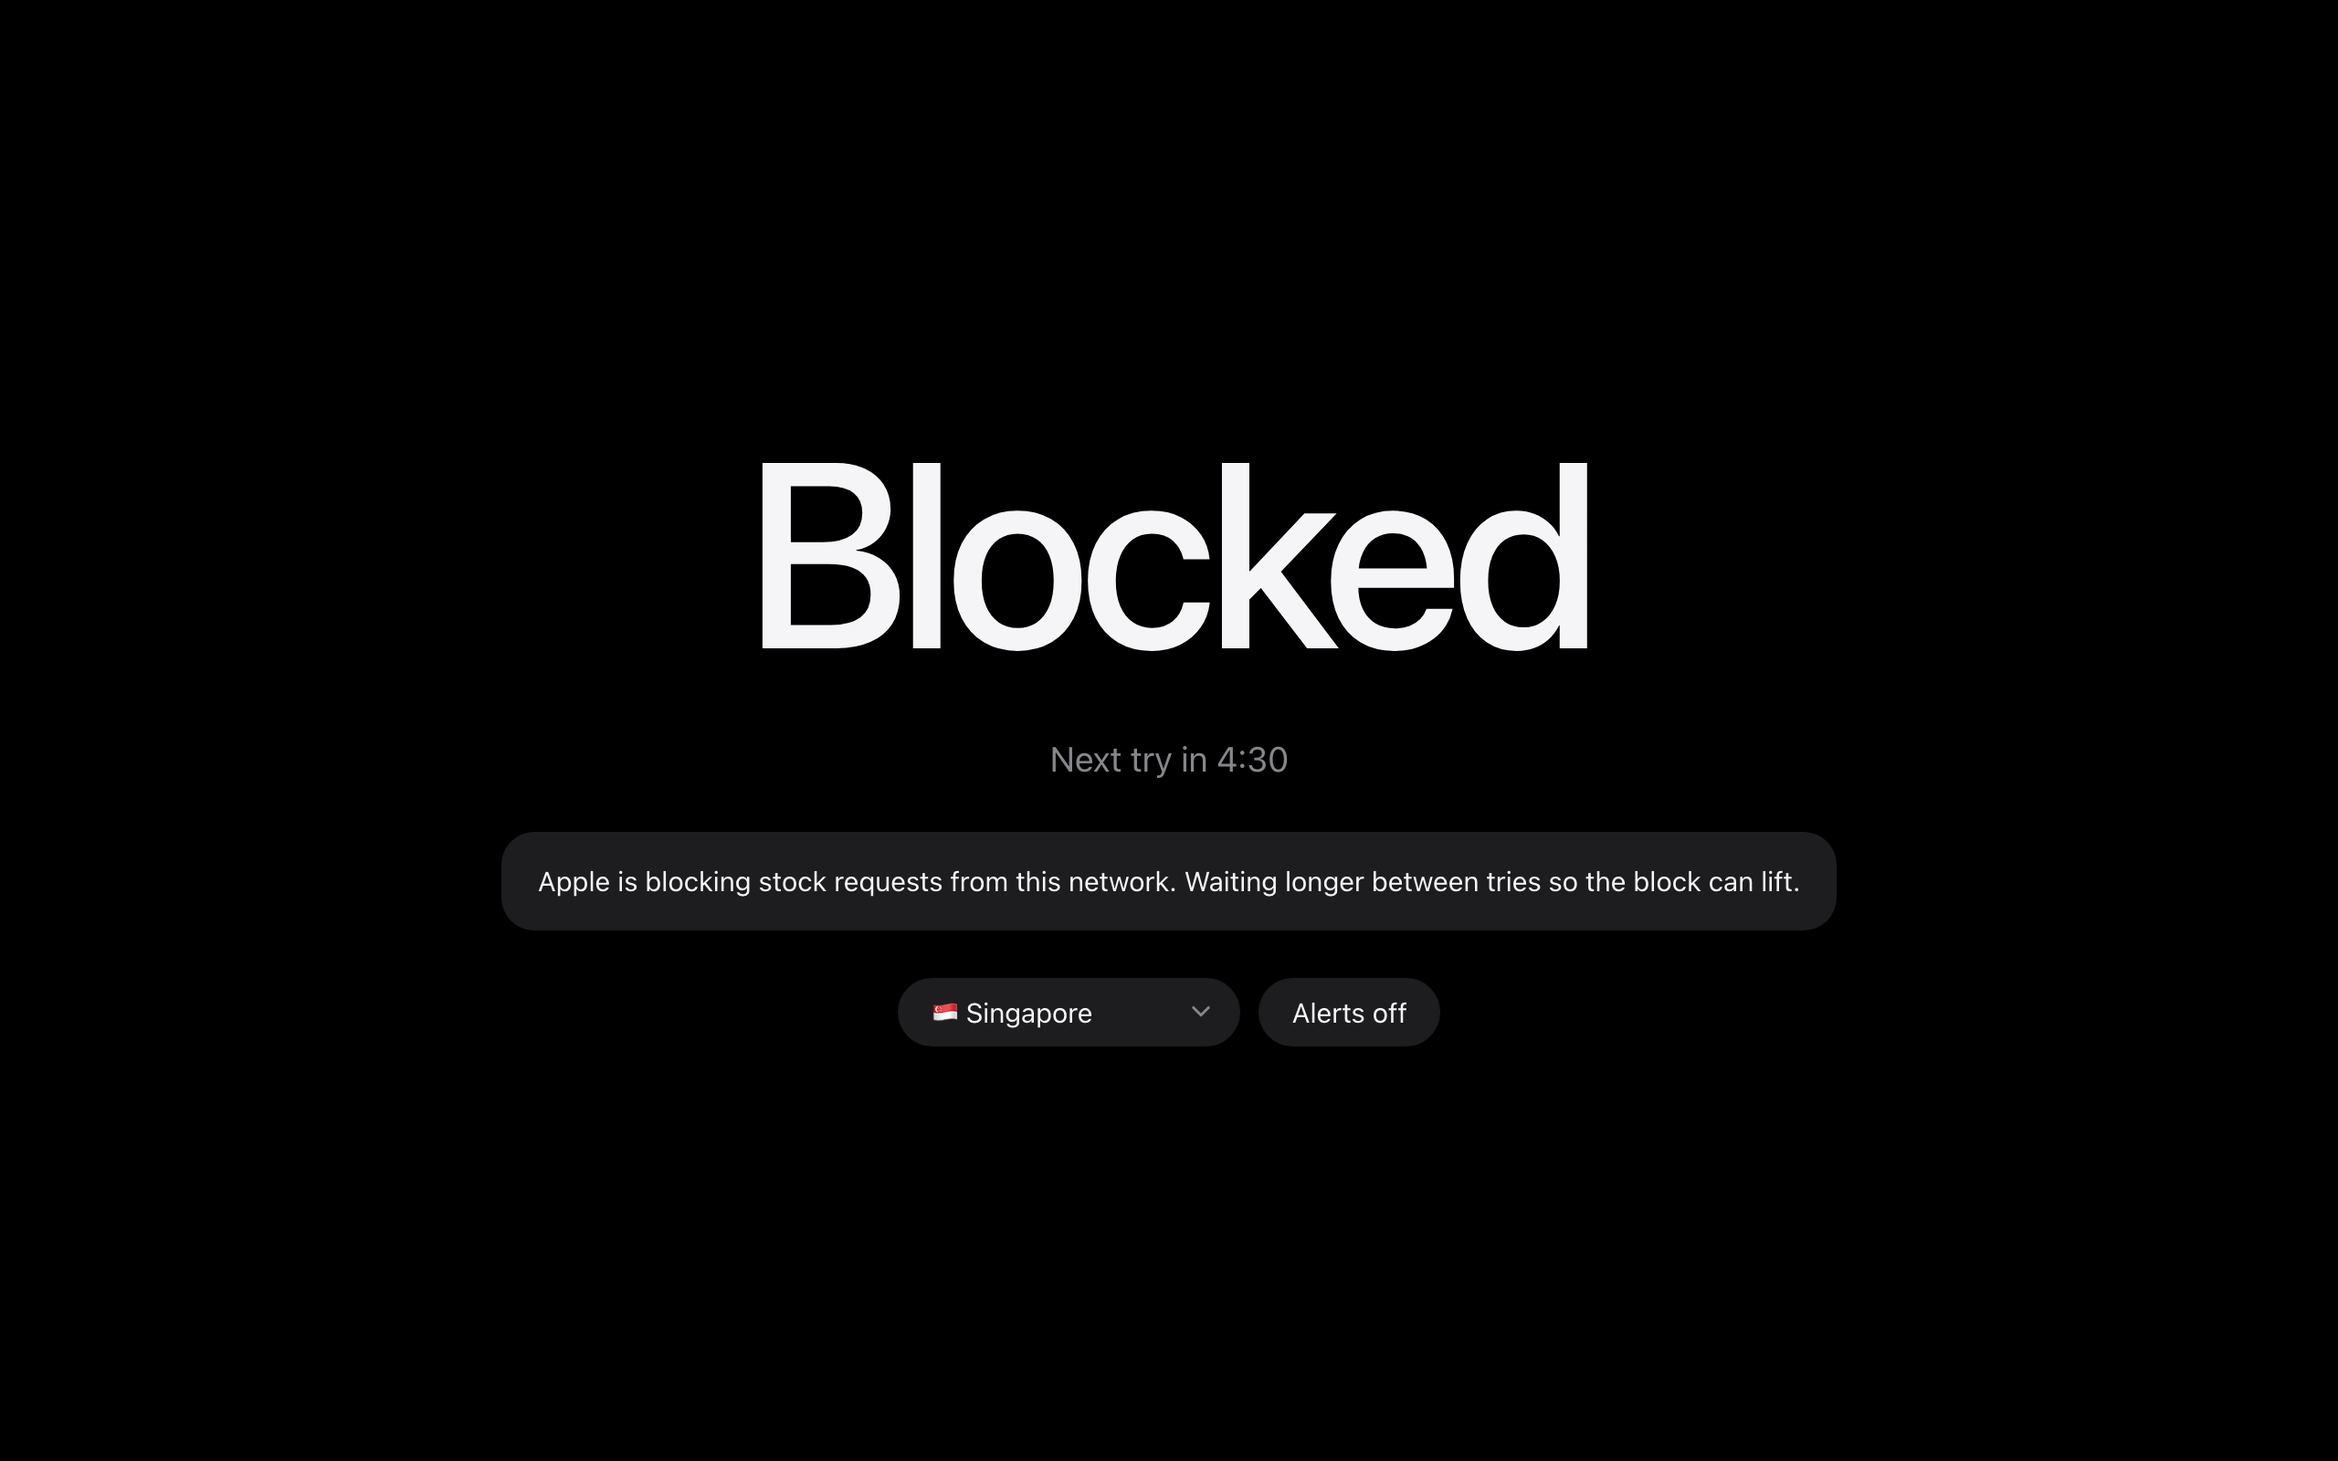
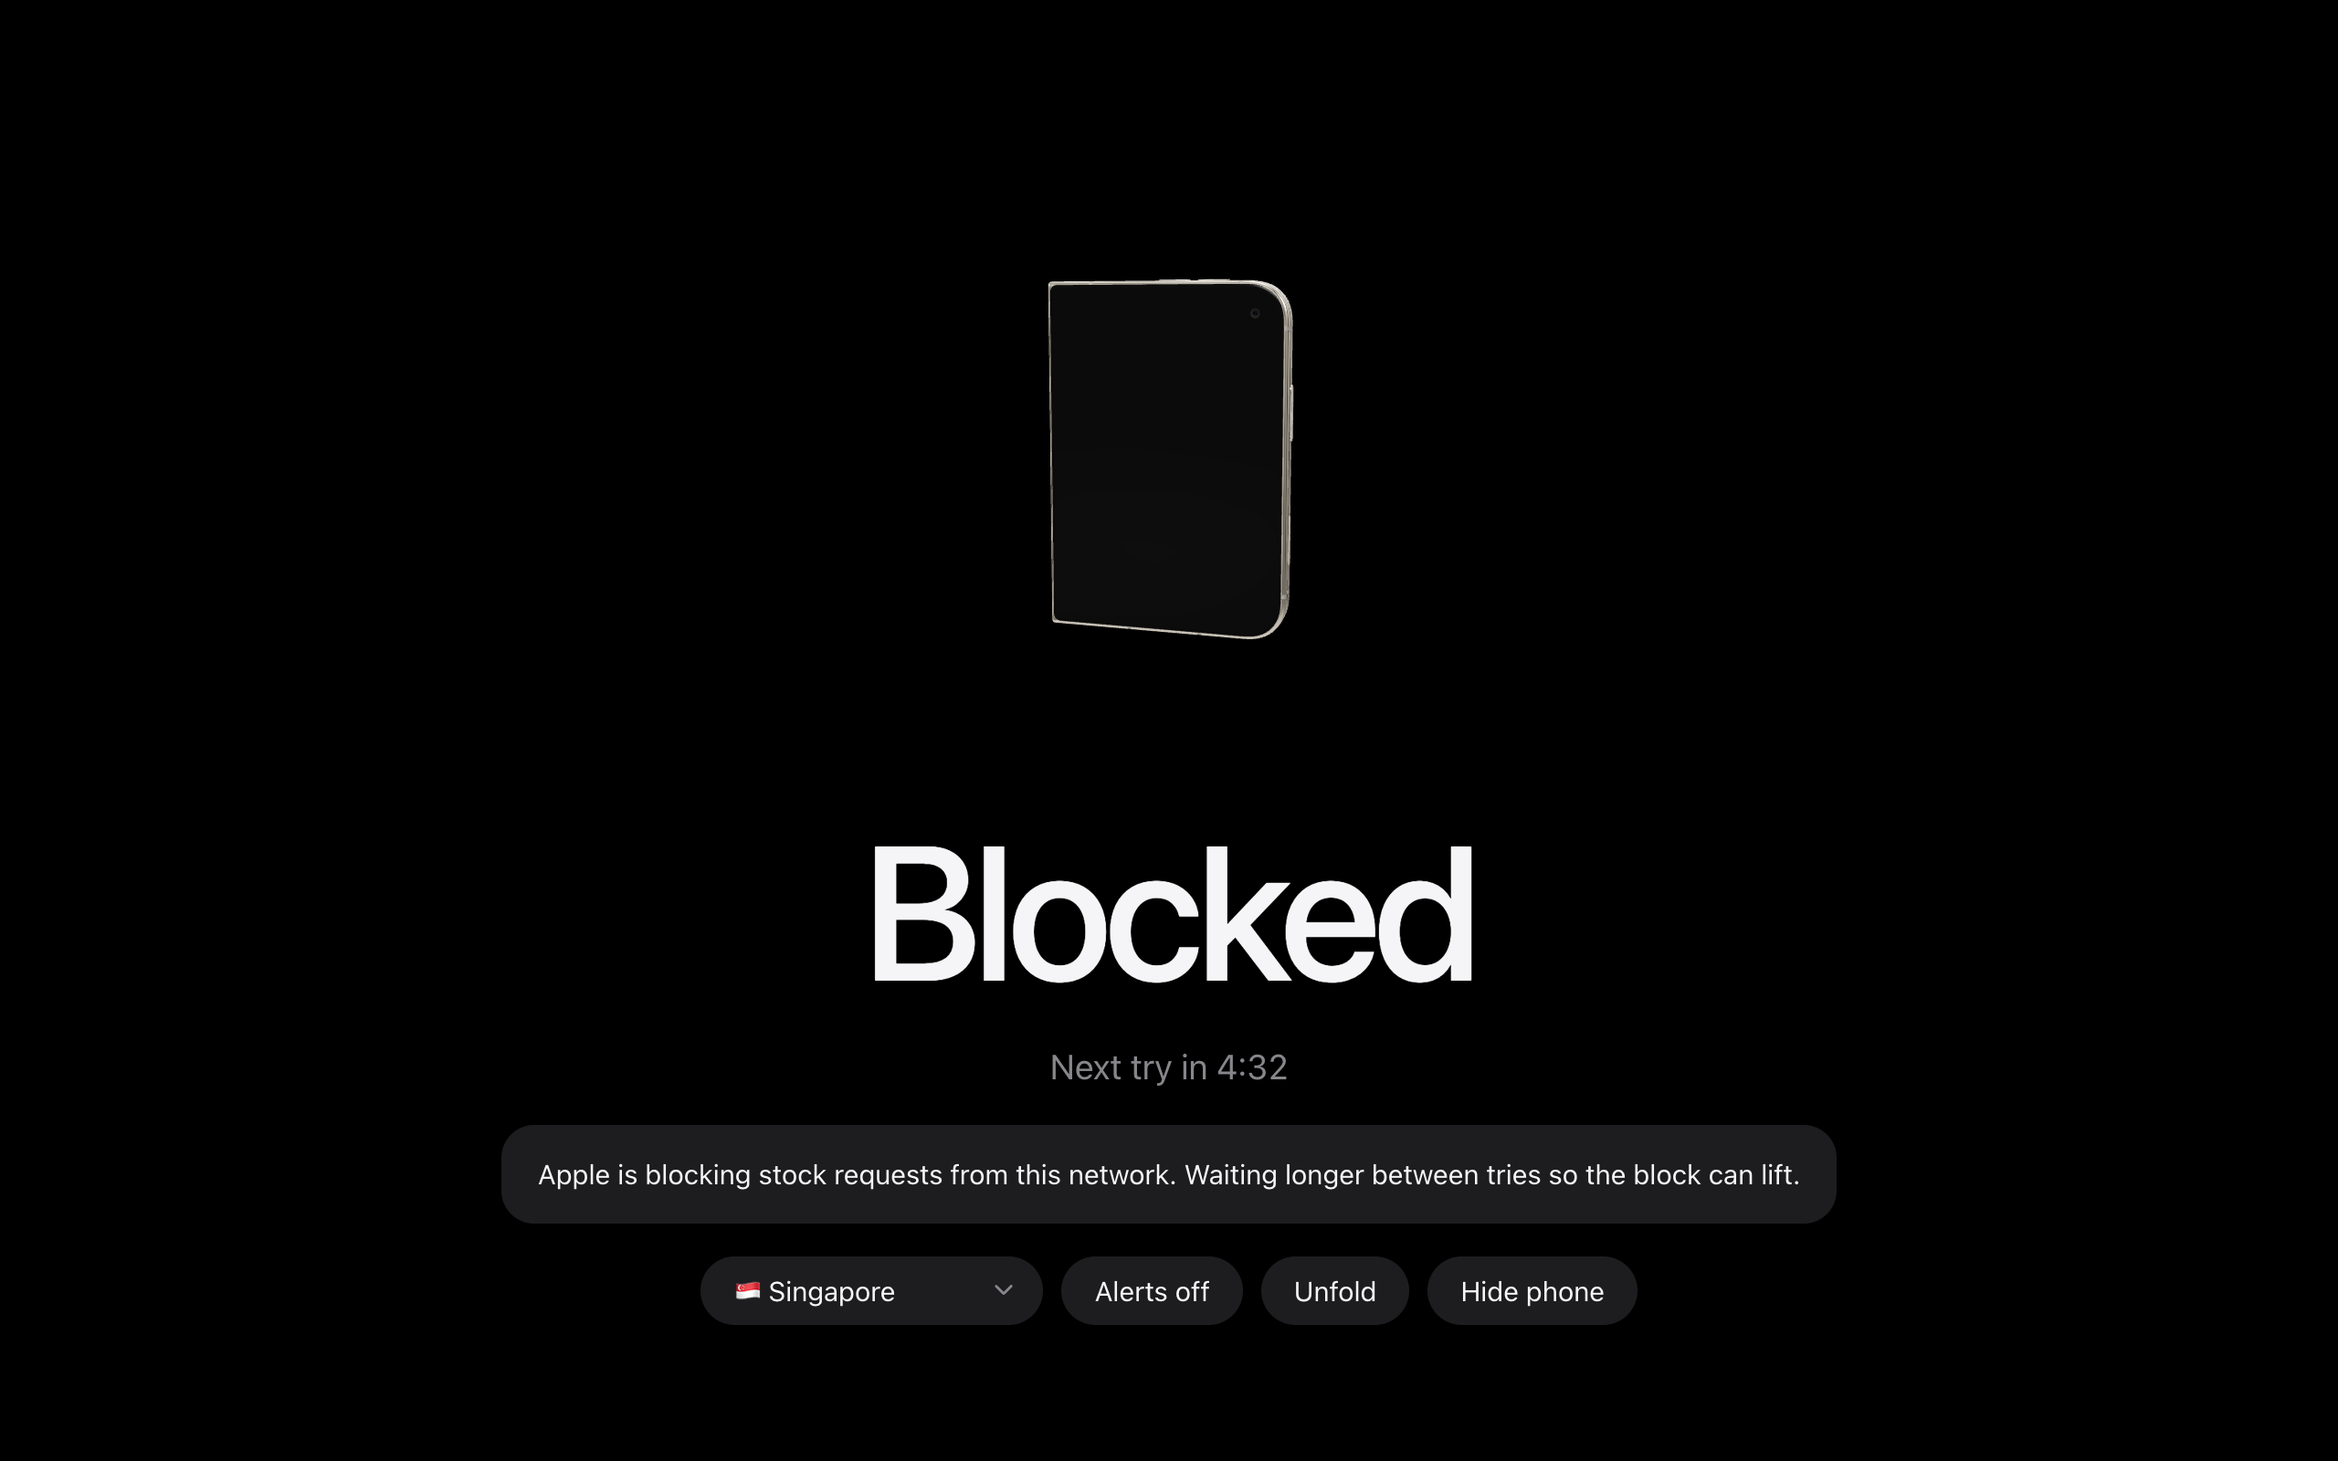
Put the 3D phone above the text, make it fold, and show timers as m:ss
- The phone sits in its own block above the headline instead of behind it.
- Unfold/Fold bends the unfolded model at its hinge; Apple's file has only
  still poses, so the fold is built in the page.
- Hide phone removes it and re-centres the text; the choice is remembered.
- 'Checked 0:42 ago · next check in 0:23' replaces the seconds counter.
- get-model.sh builds the unfolded pose and accepts COLOR=Night_Sky.
- README screenshots retaken with the phone.

Changed region(s): [[0.1875, 0.5625, 0.8125, 0.9062], [0.3125, 0.1875, 0.6875, 0.4688], [0.4375, 0.5, 0.5625, 0.5312]]

diff --git a/index.html b/index.html
@@ -48,17 +48,16 @@
   input { width: 9em; text-align: center; }
   button[aria-pressed="true"] { background: var(--accent); color: var(--on-accent); }
   button:focus-visible, a:focus-visible, select:focus-visible, input:focus-visible { outline: 2px solid var(--accent); outline-offset: 3px; }
-  /* Optional 3D phone behind the text. Drag anywhere empty to turn it. */
-  #bg { position: fixed; inset: 0; width: 100%; height: 100%; z-index: 0; opacity: 0; transition: opacity 0.8s; cursor: grab; touch-action: none; }
-  #bg.ready { opacity: 0.55; }
+  /* Optional 3D phone, in its own block above the text. Drag to turn it, scroll to zoom. */
+  #bg { display: block; width: 100%; height: min(44vh, 420px); cursor: grab; touch-action: none; outline: none; }
   #bg:active { cursor: grabbing; }
-  main { position: relative; z-index: 1; pointer-events: none; }
-  main a, main button, main select, main input, main .note { pointer-events: auto; }
+  body.phone h1 { font-size: clamp(44px, 10vw, 104px); }
+  body.phone main { gap: 18px; }
 </style>
 </head>
 <body>
-<canvas id="bg" aria-hidden="true"></canvas>
 <main>
+  <canvas id="bg" aria-hidden="true" hidden></canvas>
   <h1 id="headline">Checking…</h1>
   <ul class="hits" id="hits" hidden></ul>
   <div class="sub" id="sub"></div>
@@ -67,6 +66,8 @@
     <select id="country" aria-label="Country"></select>
     <input id="place" type="text" aria-label="Postcode or city" autocomplete="off" spellcheck="false" hidden>
     <button id="alerts" type="button" aria-pressed="false">Alerts off</button>
+    <button id="fold" type="button" hidden>Unfold</button>
+    <button id="phone" type="button" hidden>Hide phone</button>
   </div>
 </main>
 
@@ -126,15 +127,18 @@
     tickClock();
   }
 
+  const clock = (seconds) => Math.floor(seconds / 60) + ":" + String(seconds % 60).padStart(2, "0");
+
   function tickClock() {
     if (!state) return;
     const now = Date.now() + skew;
     if (state.status === "blocked" || state.status === "error") {
       const left = Math.max(0, Math.round((state.nextAt - now) / 1000));
-      sub.textContent = left ? "Next try in " + Math.floor(left / 60) + ":" + String(left % 60).padStart(2, "0") : "Trying now";
+      sub.textContent = left ? "Next try in " + clock(left) : "Trying now";
     } else if (state.checkedAt) {
-      const s = Math.max(0, Math.round((now - state.checkedAt) / 1000));
-      sub.textContent = "Checked " + (s < 2 ? "just now" : s + " s ago");
+      const ago = Math.max(0, Math.round((now - state.checkedAt) / 1000));
+      const left = Math.max(0, Math.round((state.nextAt - now) / 1000));
+      sub.textContent = "Checked " + clock(ago) + " ago \u00b7 " + (left ? "next check in " + clock(left) : "checking now");
     } else sub.textContent = "";
   }
 
@@ -212,7 +216,79 @@
 <script type="module">
 // Optional background: Apple's iPhone Duo AR model, if scripts/get-model.sh has fetched it.
 // Nothing here is needed for stock checking; any failure just leaves the page plain.
-const canvas = document.getElementById("bg");
+// Turns the unfolded phone model into one that can fold. Apple's file has no fold animation, only
+// still poses, so this bends the unfolded pose at its hinge: every part left of the hinge swings
+// over onto the right half. Parts that cross the hinge (the inner display, the hinge itself) are
+// bent vertex by vertex.
+function foldable(THREE, source) {
+  source.updateMatrixWorld(true);
+  const parts = [];
+  source.traverse((o) => {
+    if (!o.isMesh) return;
+    const geo = o.geometry.clone().applyMatrix4(o.matrixWorld); // bake placement into the vertices
+    if (o.matrixWorld.determinant() < 0) {
+      if (geo.index) { const ix = geo.index.array; for (let i = 0; i < ix.length; i += 3) { const t = ix[i + 1]; ix[i + 1] = ix[i + 2]; ix[i + 2] = t; } }
+      else o.material.side = THREE.DoubleSide;
+    }
+    geo.computeBoundingBox();
+    parts.push({ geo, material: o.material, box: geo.boundingBox.clone(), order: o.renderOrder });
+  });
+  const width = Math.max(...parts.map((p) => p.box.max.x - p.box.min.x));
+  // Drop helper shapes that are far thicker than a phone (the file carries an invisible bounding block).
+  const real = parts.filter((p) => p.box.max.z - p.box.min.z < width * 0.1);
+  const all = new THREE.Box3();
+  for (const p of real) all.union(p.box);
+  const hinge = (all.min.x + all.max.x) / 2, eps = width * 0.004, pivotZ = all.max.z;
+  const half = (all.max.x - hinge) / 2, midY = (all.min.y + all.max.y) / 2;
+
+  const group = new THREE.Group(), leaf = new THREE.Group(), bend = [];
+  leaf.position.set(hinge, 0, pivotZ);
+  group.add(leaf);
+  for (const p of real) {
+    // Keep each part's own centre as its position: see-through layers (glass over the wallpaper)
+    // are drawn back to front by that centre, and stacking them all at the origin breaks the order.
+    const mid = p.box.getCenter(new THREE.Vector3());
+    p.geo.translate(-mid.x, -mid.y, -mid.z);
+    const mesh = new THREE.Mesh(p.geo, p.material);
+    mesh.renderOrder = p.order;
+    // The lit screen image lies exactly on top of a black panel. Draw it after the panel and nudge
+    // it forward, or the two fight for the same depth and the screen comes out dark.
+    if (p.material.emissiveMap) {
+      mesh.renderOrder = p.order + 1;
+      p.material.polygonOffset = true; p.material.polygonOffsetFactor = -2; p.material.polygonOffsetUnits = -2;
+    }
+    mesh.position.copy(mid);
+    if (p.box.max.x <= hinge + eps) { mesh.position.x -= hinge; mesh.position.z -= pivotZ; leaf.add(mesh); }
+    else if (p.box.min.x >= hinge - eps) group.add(mesh);
+    else {
+      mesh.frustumCulled = false;
+      const pos = p.geo.attributes.position, nor = p.geo.attributes.normal;
+      bend.push({ pos, nor, mid, p0: pos.array.slice(), n0: nor ? nor.array.slice() : null });
+      group.add(mesh);
+    }
+  }
+
+  // t = 0 is unfolded, t = 1 is closed with the cover display facing the camera.
+  function set(t) {
+    const a = t * Math.PI, c = Math.cos(a), s = Math.sin(a);
+    leaf.rotation.y = a;
+    for (const b of bend) {
+      const P = b.pos.array, N = b.nor ? b.nor.array : null;
+      for (let i = 0; i < P.length; i += 3) {
+        const x = b.p0[i] + b.mid.x - hinge, z = b.p0[i + 2] + b.mid.z - pivotZ;
+        if (x >= 0) continue;
+        P[i] = hinge + x * c + z * s - b.mid.x; P[i + 2] = pivotZ - x * s + z * c - b.mid.z;
+        if (N) { const nx = b.n0[i], nz = b.n0[i + 2]; N[i] = nx * c + nz * s; N[i + 2] = -nx * s + nz * c; }
+      }
+      b.pos.needsUpdate = true; if (b.nor) b.nor.needsUpdate = true;
+    }
+    group.position.set(-(hinge + half * t), -midY, -pivotZ);
+  }
+  set(1);
+  return { group, set, width: all.max.x - all.min.x };
+}
+
+const canvas = document.getElementById("bg"), fold = document.getElementById("fold"), toggle = document.getElementById("phone");
 try {
   const probe = await fetch("/model/duo.usdz", { method: "HEAD" });
   if (!probe.ok) throw new Error("no model");
@@ -230,35 +306,66 @@ try {
   scene.environment = new THREE.PMREMGenerator(renderer).fromScene(new RoomEnvironment(), 0.04).texture;
   const camera = new THREE.PerspectiveCamera(30, 1, 0.01, 100);
 
-  const model = await new USDLoader().loadAsync("/model/duo.usdz");
-  const box = new THREE.Box3().setFromObject(model);
-  const size = box.getSize(new THREE.Vector3());
-  model.position.sub(box.getCenter(new THREE.Vector3()));
-  scene.add(model);
-
-  const reach = Math.max(size.x, size.y, size.z);
-  camera.position.set(reach * 0.9, reach * 0.25, reach * 2.1);
+  const phone = foldable(THREE, await new USDLoader().loadAsync("/model/duo.usdz"));
+  scene.add(phone.group);
+  const reach = phone.width;
+  camera.position.set(reach * 0.75, reach * 0.3, reach * 2.3);
 
   const controls = new OrbitControls(camera, canvas);
   controls.enablePan = false;
   controls.enableDamping = true;
   controls.minDistance = reach * 1.2;
-  controls.maxDistance = reach * 4;
-  controls.autoRotate = !window.matchMedia("(prefers-reduced-motion: reduce)").matches;
+  controls.maxDistance = reach * 5;
+  const calm = window.matchMedia("(prefers-reduced-motion: reduce)").matches;
+  controls.autoRotate = !calm;
   controls.autoRotateSpeed = 1.2;
 
   const resize = () => {
-    renderer.setSize(window.innerWidth, window.innerHeight, false);
-    camera.aspect = window.innerWidth / window.innerHeight;
+    const w = canvas.clientWidth, h = canvas.clientHeight;
+    if (!w || !h) return;
+    renderer.setSize(w, h, false);
+    camera.aspect = w / h;
     camera.updateProjectionMatrix();
   };
-  window.addEventListener("resize", resize);
-  resize();
+  new ResizeObserver(resize).observe(canvas);
 
-  renderer.setAnimationLoop(() => { controls.update(); renderer.render(scene, camera); });
-  canvas.classList.add("ready");
+  // Show or hide the phone block. Hidden, the text sits alone in the middle of the page again.
+  let hidden = false;
+  try { hidden = localStorage.getItem("duo-phone-hidden") === "1"; } catch (e) {}
+  const apply = () => {
+    canvas.hidden = hidden; fold.hidden = hidden; toggle.hidden = false;
+    document.body.classList.toggle("phone", !hidden);
+    toggle.textContent = hidden ? "Show phone" : "Hide phone";
+    if (!hidden) resize();
+  };
+  toggle.addEventListener("click", () => {
+    hidden = !hidden;
+    try { localStorage.setItem("duo-phone-hidden", hidden ? "1" : "0"); } catch (e) {}
+    apply();
+  });
+
+  // Fold state eases toward its target: 1 closed, 0 unfolded.
+  let target = location.hash === "#unfolded" ? 0 : 1, at = target, last = performance.now();
+  phone.set(at);
+  renderer.setAnimationLoop((now) => {
+    const dt = Math.min(0.05, (now - last) / 1000); last = now;
+    if (at !== target) {
+      at = calm || Math.abs(target - at) < 0.002 ? target : at + (target - at) * (1 - Math.exp(-dt * 4.5));
+      phone.set(at);
+    }
+    if (hidden) return;
+    controls.update();
+    renderer.render(scene, camera);
+  });
+  apply();
+  fold.textContent = target ? "Unfold" : "Fold";
+  fold.addEventListener("click", () => {
+    target = target ? 0 : 1;
+    fold.textContent = target ? "Unfold" : "Fold";
+  });
 } catch (error) {
-  canvas.hidden = true;
+  canvas.hidden = true; fold.hidden = true; toggle.hidden = true;
+  document.body.classList.remove("phone");
 }
 </script>
 </body>

diff --git a/README.md b/README.md
@@ -12,11 +12,11 @@ No account, no hosting, no dependencies.
 
 ## Screenshots
 
-Captured from the real page with sample data.
+Captured from the real page with sample stock data, with the optional 3D phone turned on.
 
 | No stock | In stock |
 | --- | --- |
-| ![Black screen reading No stock](screenshots/no-stock.png) | ![White screen reading In stock, listing two configurations with their stores](screenshots/in-stock.png) |
+| ![Black screen with a closed iPhone Duo above the words No stock](screenshots/no-stock.png) | ![White screen with an unfolded iPhone Duo above the words In stock and two configurations with their stores](screenshots/in-stock.png) |
 
 When Apple is rate limiting your network:
 
@@ -43,11 +43,13 @@ To use another port:
 PORT=5000 node server.mjs
 ```
 
-## Optional: 3D iPhone Duo background
+## Optional: 3D iPhone Duo
 
-The page can show Apple's own iPhone Duo model behind the text. Drag to turn it, scroll to zoom.
+The page can show Apple's own iPhone Duo model above the text.
 
-![No stock screen with the iPhone Duo model behind the text](screenshots/with-model.png)
+- **Drag** to turn it, **scroll** to zoom. Left alone, it turns slowly.
+- **Unfold / Fold** opens and closes it.
+- **Hide phone** removes it and puts the text back in the middle of the page. The choice is remembered.
 
 The model is not in this repository, because it belongs to Apple. A script downloads it from
 apple.com to your machine instead:
@@ -59,20 +61,23 @@ apple.com to your machine instead:
 Then reload the page. What the script does:
 
 1. Downloads Apple's AR model (`.usdz`, about 8 MB) from the iPhone Duo page on apple.com.
-2. Flattens it into one layer with `usdcat`, because browsers cannot follow the references inside
-   Apple's file.
+2. Picks the unfolded pose and flattens the file into one layer with `usdcat`, because browsers
+   cannot follow the references inside Apple's file.
 3. Saves the result as `model/duo.usdz`, which is gitignored.
 
 Notes:
 
 - macOS only. `usdcat` ships with macOS; there is nothing to install.
+- Star White by default. For the other colour: `COLOR=Night_Sky ./scripts/get-model.sh`.
 - If Apple moves the file, pass the new address: `./scripts/get-model.sh <url>`. Find it by
   searching the source of apple.com/iphone-duo for `.usdz`.
 - The model is Apple's copyrighted work. Keep it on your machine. Do not commit or share it.
-- To remove the background, delete the `model` folder.
+- To remove it for good, delete the `model` folder.
 - The model is drawn with [three.js](https://threejs.org), loaded from a CDN only when the model
   is present. Without it the page is plain and loads nothing extra.
-- It shows the phone closed. The file has no fold animation the browser can play.
+- Apple's file has two still poses and no fold animation. The page makes the fold itself by
+  bending the unfolded pose at the hinge, so the crease is sharper than on the real device, and
+  the cover display is dark when closed.
 
 ## Using the page
 
